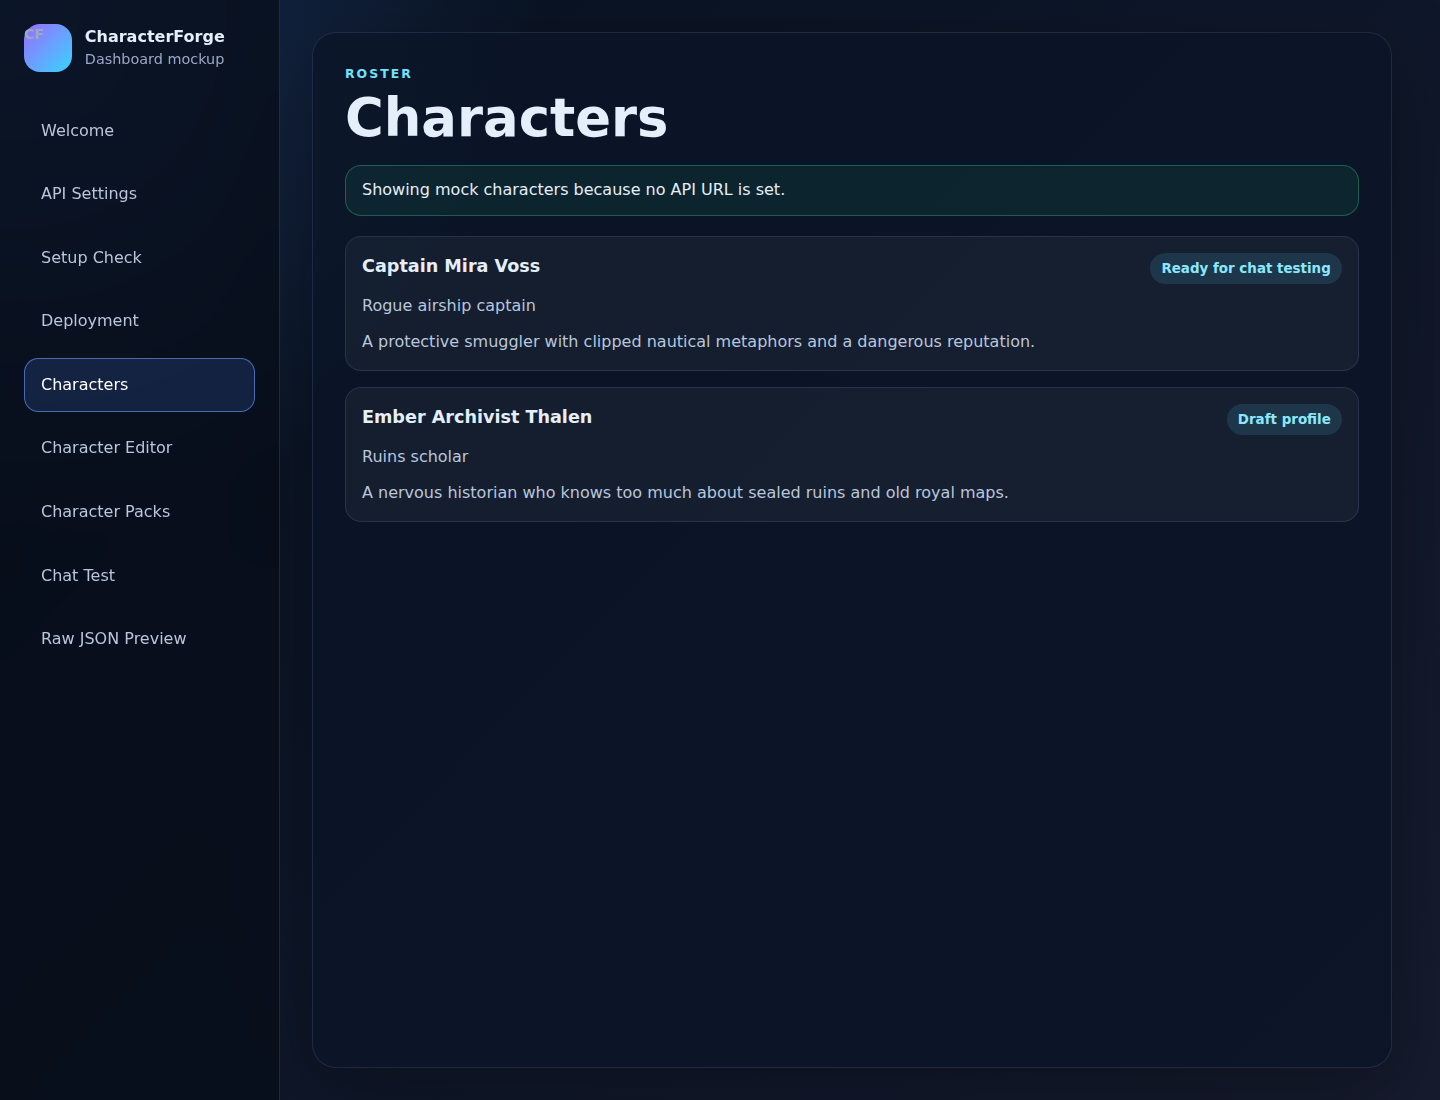
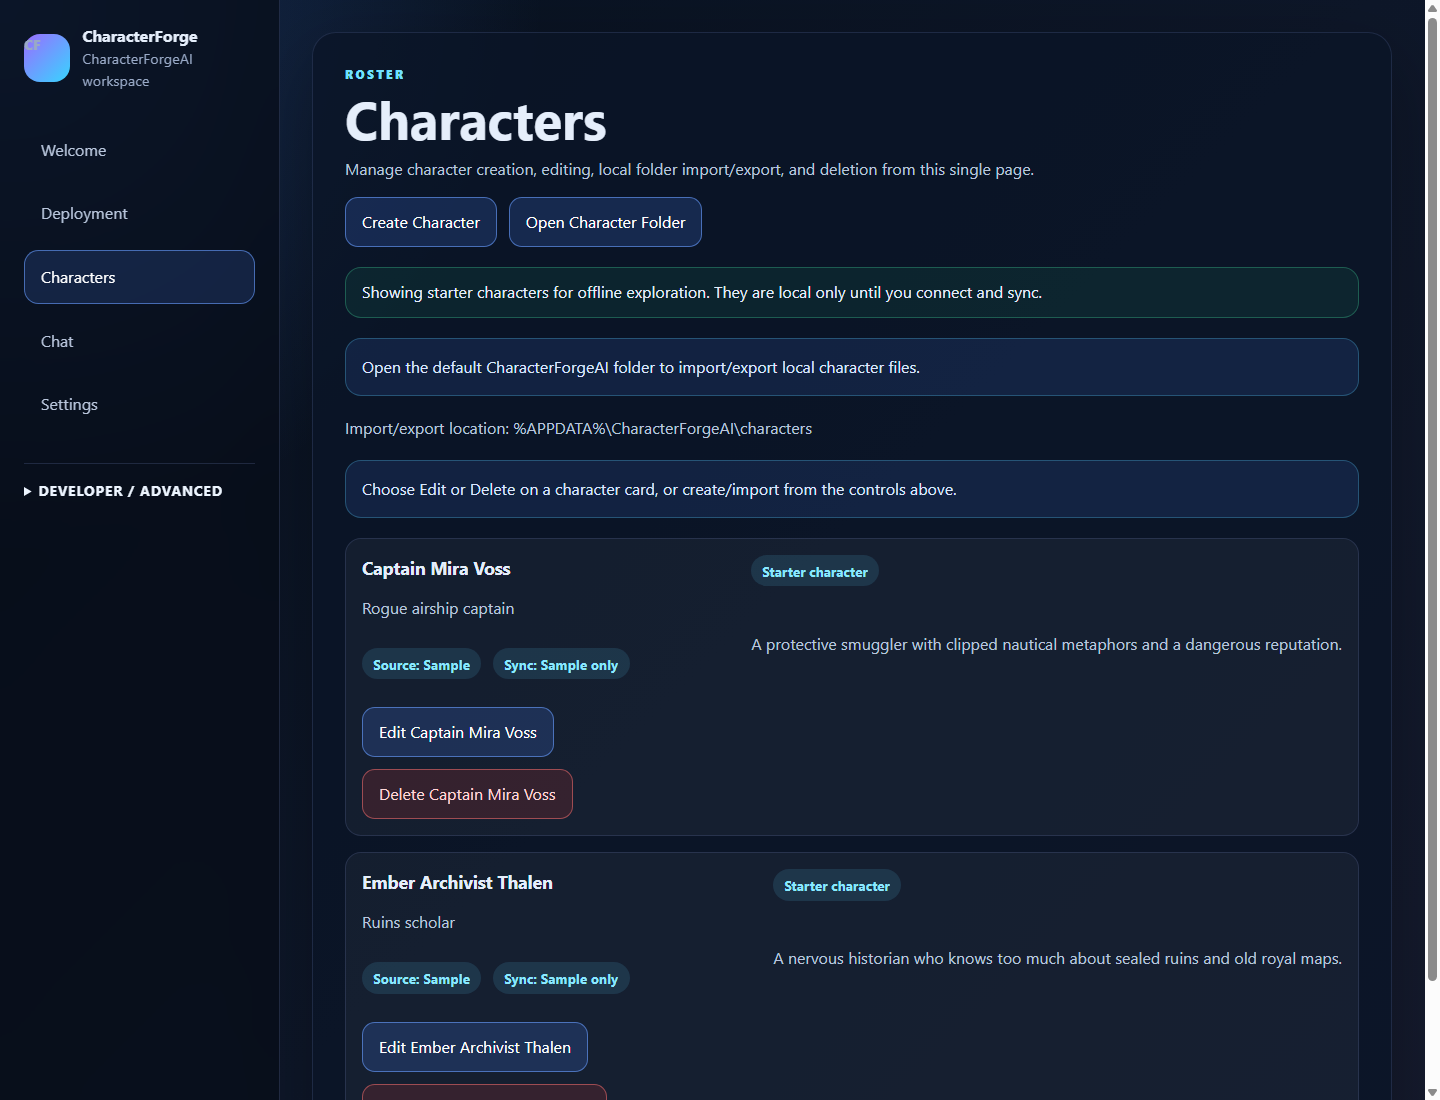
Refresh README for polished desktop app flow

diff --git a/README.md b/README.md
@@ -26,7 +26,7 @@ CharacterForge AI is a desktop-first game AI platform for creating, testing, pac
 3. If Windows SmartScreen warns that the app is from an unknown publisher, choose **More info** and then **Run anyway** if you trust this release. The current release candidate is unsigned.
 4. Finish the installer wizard.
 5. Launch **CharacterForgeAI** from the Start Menu or Desktop shortcut.
-6. Walk through the first-run tutorial. It explains mock mode, AWS costs, credential safety, and the deployment flow before you connect to live AWS resources.
+6. Walk through the first-run tutorial. It explains AWS costs, credential safety, the Deployment page, character management, and chat before you connect to live AWS resources.
 
 The Windows desktop app installs locally. Installation by itself does **not** deploy AWS infrastructure, create CloudFormation stacks, call Amazon Bedrock, or store AWS credentials in the repository.
 
@@ -65,31 +65,31 @@ With CharacterForge AI, you can:
 - Connect game clients through curl examples, a TypeScript SDK, Unity/Unreal guides, or direct HTTP calls.
 - Deploy the backend runtime to AWS with a guided SAM/CloudFormation flow when you are ready.
 
-The app is designed to be safe by default: local demo and mock workflows are available before you configure live AWS credentials, and the desktop deployment controls show cost and credential warnings before running cloud commands.
+The app is designed to be safe by default: local starter workflows are available before you configure live AWS credentials, and the desktop deployment controls show cost and credential warnings before running cloud commands.
 
 ---
 
 ## Application screenshots
 
-### Welcome and first-run tutorial
+### Welcome
 
-![CharacterForgeAI welcome and first-run tutorial](docs/assets/readme/characterforge-dashboard-welcome.png)
+![CharacterForgeAI Welcome page with setup status and first-run tutorial](docs/assets/readme/characterforge-dashboard-welcome.png)
 
-### AWS setup and deployment readiness
+### Deployment
 
-![CharacterForgeAI setup and deployment readiness screen](docs/assets/readme/characterforge-dashboard-setup.png)
+![CharacterForgeAI Deployment page with API connection help and AWS readiness panels](docs/assets/readme/characterforge-dashboard-deployment.png)
 
-### Character dashboard
+### Characters
 
-![CharacterForgeAI character dashboard](docs/assets/readme/characterforge-dashboard-characters.png)
+![CharacterForgeAI Characters page with starter characters and local folder actions](docs/assets/readme/characterforge-dashboard-characters.png)
 
-### Character packs
+### Chat
 
-![CharacterForgeAI character packs screen](docs/assets/readme/characterforge-dashboard-packs.png)
+![CharacterForgeAI Chat page prompting the user to connect Deployment before chatting](docs/assets/readme/characterforge-dashboard-chat.png)
 
-### Chat test
+### Settings
 
-![CharacterForgeAI chat test screen](docs/assets/readme/characterforge-dashboard-chat.png)
+![CharacterForgeAI Settings page with app update controls](docs/assets/readme/characterforge-dashboard-settings.png)
 
 ---
 
@@ -107,15 +107,17 @@ CharacterForge AI deploys a small serverless runtime to AWS. API Gateway receive
 
 Use the Windows installer at the top of this README. After installation, launch **CharacterForgeAI** and complete or skip the first-run tutorial.
 
-### 2. Try the app in mock mode
+### 2. Explore locally before connecting AWS
 
-You can explore the dashboard without AWS:
+You can learn the desktop flow without AWS:
 
-1. Leave the API base URL blank.
-2. Use the character, character-pack, setup, and chat screens in mock/demo mode.
-3. Review the generated JSON payloads before connecting to any live backend.
+1. Leave the API Base URL blank.
+2. Use **Welcome** to review connection status and the first-run tutorial.
+3. Use **Characters** to create, edit, import/export, or delete local starter characters.
+4. Use **Chat** to see the connection-required empty state before a live API is configured.
+5. Use **Settings** for app-level actions such as update checks.
 
-Mock mode is useful for learning the workflow, preparing character data, and testing the UI without cloud costs.
+Local exploration is useful for learning the workflow, preparing character data, and testing UI behavior without cloud costs.
 
 ### 3. Prepare AWS only when you want a live backend
 
@@ -130,9 +132,9 @@ A live deployment requires:
 
 Do **not** commit AWS access keys, API keys, credential files, or generated secrets to this repository.
 
-### 4. Review the guided setup screen
+### 4. Review Deployment
 
-In the desktop app, open the setup/deployment area and confirm:
+In the desktop app, open **Deployment** and confirm:
 
 1. AWS region.
 2. Bedrock model ID.
@@ -142,11 +144,11 @@ In the desktop app, open the setup/deployment area and confirm:
 6. Cost and safety warnings.
 7. The stack name/environment you intend to deploy.
 
-Browser-only dashboard mode does not run real AWS deployment commands. Live Start/End deployment controls are intended for the trusted local desktop shell.
+Local preview does not run real AWS deployment commands. Live Start/End deployment controls are intended for the trusted packaged desktop app.
 
 ### 5. Deploy with Start, or deploy manually with SAM
 
-The desktop **Start** flow is designed around AWS SAM and CloudFormation. It previews deployment intent, avoids logging credential values, runs SAM/CloudFormation commands from the local machine, and polls stack status until the deployment reaches a final state.
+The desktop **Start** flow is designed around AWS SAM and CloudFormation. It checks readiness, avoids logging credential values, runs SAM/CloudFormation commands from the local machine, discovers stack outputs after launch, and polls stack status until the deployment reaches a final state.
 
 Manual equivalent:
 
@@ -173,12 +175,13 @@ The stack creates:
 
 After deployment:
 
-1. Copy the CloudFormation `ApiUrl` output.
-2. Retrieve the API Gateway API key value from AWS.
-3. In CharacterForgeAI, open Deployment.
-4. Paste the API base URL and API key into the local app's API connection fields.
-5. Test the connection.
-6. Create or import characters, then use the chat screen to test live responses.
+1. If Start launched the stack from the desktop app, review the discovered stack outputs in Deployment.
+2. If you deployed outside the app, copy the CloudFormation `ApiUrl` output or API Gateway invoke URL.
+3. Retrieve the API Gateway API key value from the stack output or API Gateway usage-plan key.
+4. In CharacterForgeAI, open **Deployment**.
+5. Paste the API Base URL and API Key into the local app's API connection fields.
+6. Test the connection.
+7. Create or import characters, then use **Chat** to test live responses.
 
 Keep the API key local. Do not paste real key values into Git commits, screenshots, bug reports, or shared logs.
 
@@ -230,6 +233,7 @@ If a deployment rolls back or deletion fails, inspect the CloudFormation events 
 
 ## More documentation
 
+- [Desktop quickstart](docs/desktop-quickstart.md)
 - [AWS deployment guide](docs/aws-deployment.md)
 - [Character packs](docs/character-packs.md)
 - [Game action bindings](docs/game-bindings.md)

diff --git a/docs/desktop-quickstart.md b/docs/desktop-quickstart.md
@@ -1,0 +1,49 @@
+# CharacterForgeAI Desktop Quickstart
+
+This guide covers the end-user desktop flow shown in the current app screenshots.
+
+## 1. Open the app
+
+Launch **CharacterForgeAI** from the Windows Start Menu or Desktop shortcut. The **Welcome** page shows whether the app is connected, whether deployment settings are present, and what to do next.
+
+If this is your first run, use **Start Guided Setup** for safety notes about AWS costs, credentials, deployment, characters, and chat.
+
+## 2. Set up Deployment
+
+Open **Deployment** to connect a backend or prepare a new one.
+
+- **API Base URL** comes from your stack outputs after Start succeeds, or from AWS CloudFormation/API Gateway if you deployed outside the app.
+- **API Key** comes from the stack output or API Gateway usage-plan key value.
+- Keep API keys local. The app treats them as secrets and normal status panels/logs should not show raw key values.
+
+Before using **Start**, run readiness checks and confirm the setup/cost warning. In local preview, Start and End are disabled; they are available in the packaged desktop app.
+
+Before using **End**, export or save any characters you want to keep, then confirm the target stack and region.
+
+## 3. Manage Characters
+
+Open **Characters** to create, edit, import/export, or delete character profiles.
+
+- Starter characters are local examples for learning the workflow.
+- Use **Open Character Folder** to review files in the default local CharacterForgeAI folder.
+- Connected characters can be synced with your deployed service after the API connection is tested.
+- Delete actions require confirmation before removing local or connected character data.
+
+## 4. Test Chat
+
+Open **Chat** after Deployment is connected and characters are synced. Chat uses the connected CharacterForge service and the selected character.
+
+If the app is not connected yet, Chat shows a setup prompt with an **Open Deployment** button instead of pretending a live chat is available.
+
+## 5. Check Settings
+
+Open **Settings** for app-level preferences such as update checks. Deployment setup, API connection, AWS readiness, and Start/End controls stay on the Deployment page so setup remains in one place.
+
+## Credential safety
+
+Do not paste real API keys, AWS access keys, secret keys, session tokens, passwords, or private endpoints into screenshots, commits, issue reports, or shared logs. Use placeholders such as:
+
+```text
+https://<api-id>.execute-api.<region>.amazonaws.com/<stage>
+<redacted-api-key>
+```
